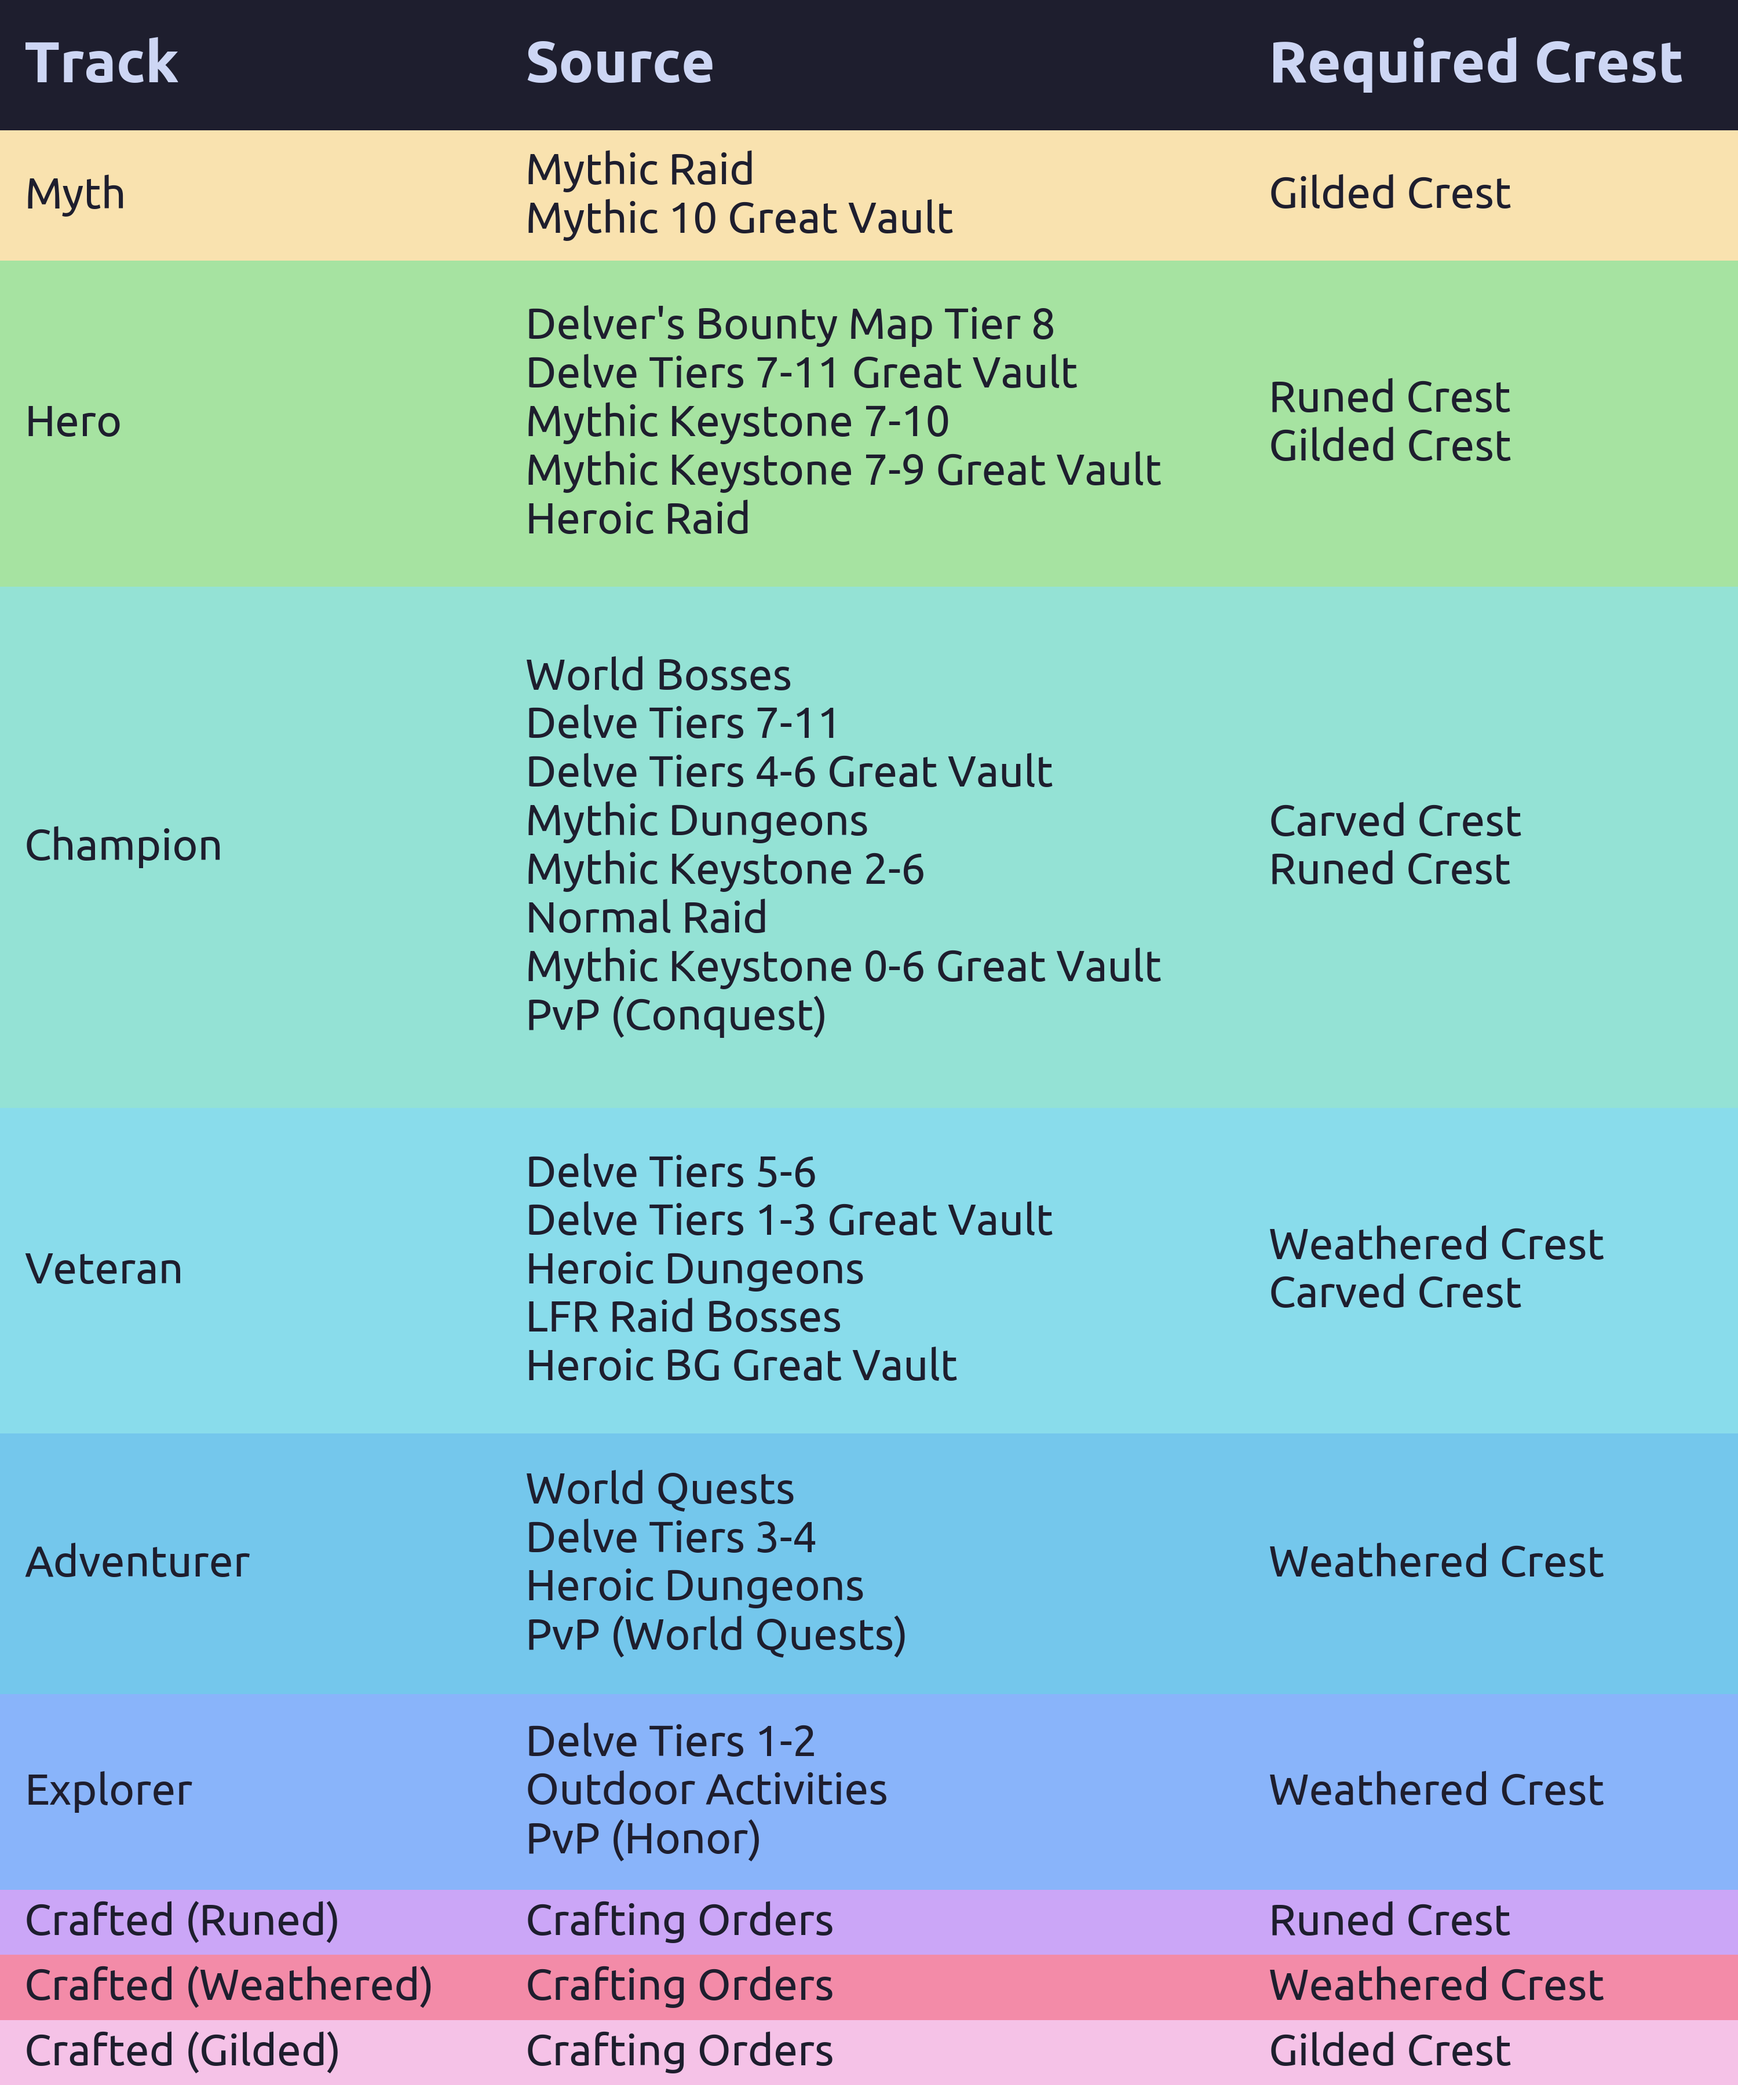
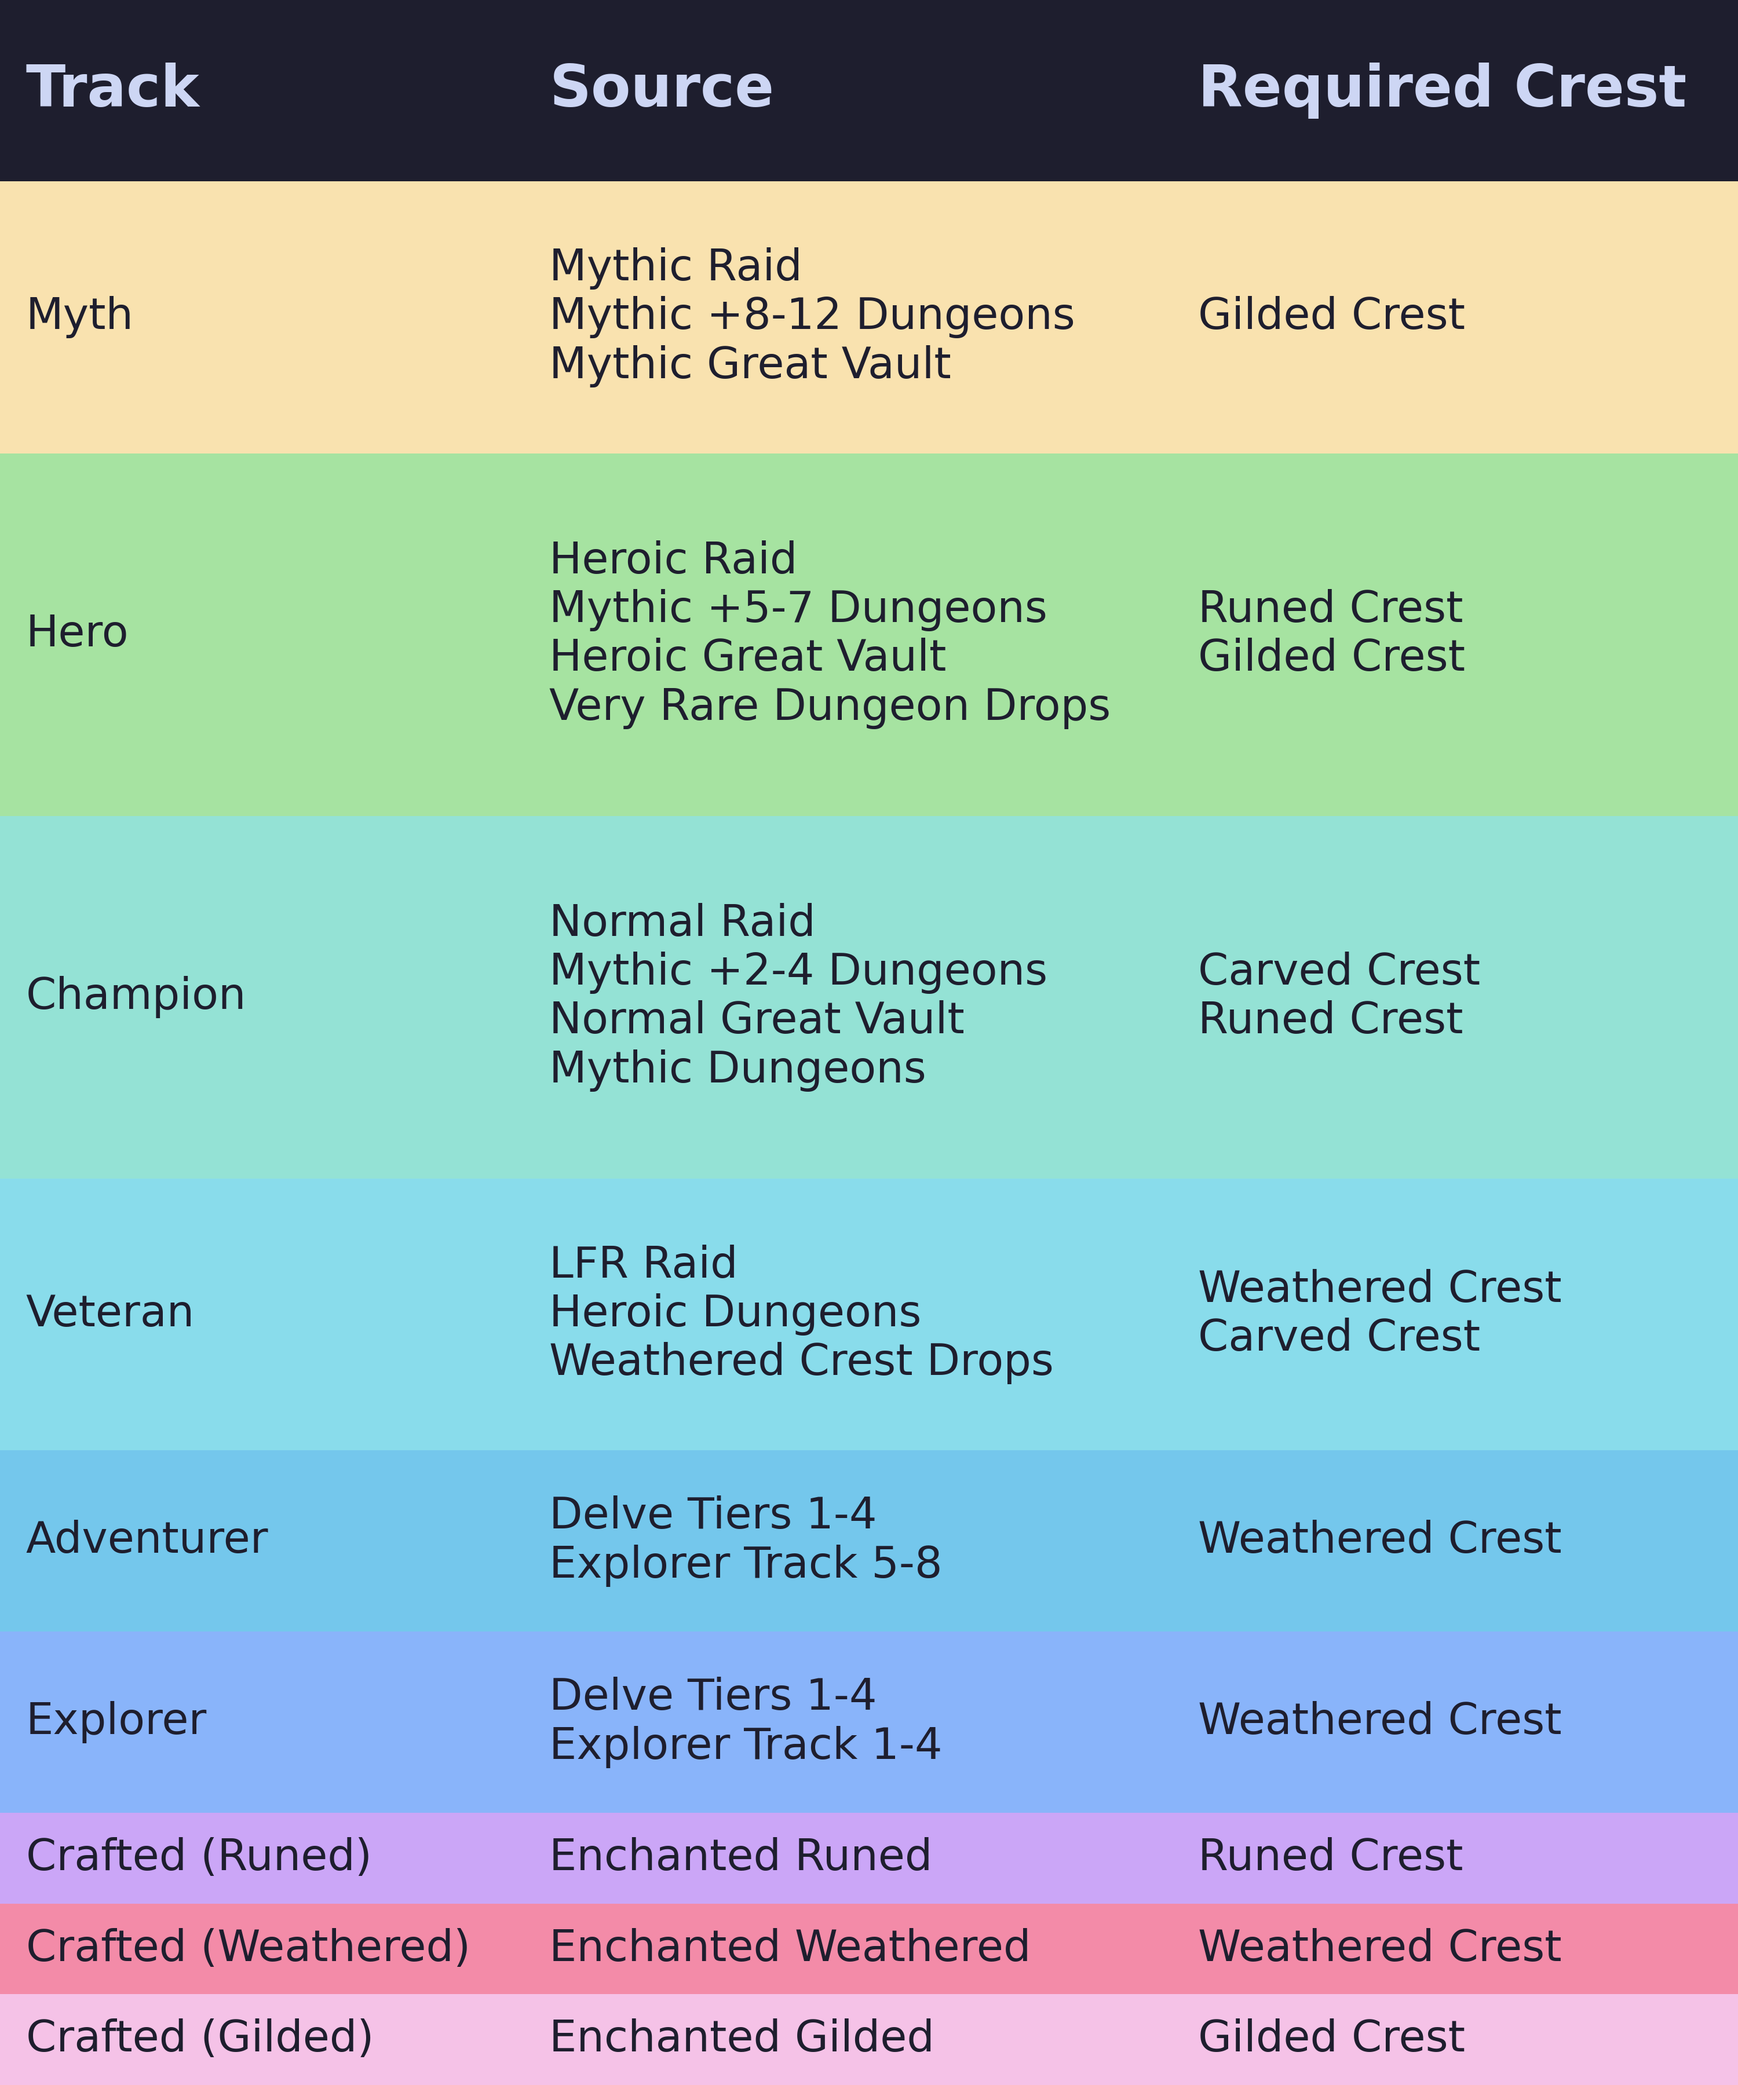
add crest and season 2

diff --git a/gear_prog/data.py b/gear_prog/data.py
@@ -42,80 +42,108 @@ custom_track_colors = {
 }
 
 gear_score_data = {
-    'Normal Dungeon': {'Starting Item Level': 554, 'Max Item Level': 554},
-    'Explorer': {'Starting Item Level': 558, 'Max Item Level': 580},
-    'Adventurer': {'Starting Item Level': 571, 'Max Item Level': 593},
-    'Veteran': {'Starting Item Level': 584, 'Max Item Level': 606},
-    'Champion': {'Starting Item Level': 597, 'Max Item Level': 619},
-    'Hero': {'Starting Item Level': 610, 'Max Item Level': 626},
-    'Myth': {'Starting Item Level': 623, 'Max Item Level': 639},
-    'Base Spark Crafted': {'Starting Item Level': 593, 'Max Item Level': 606},
-    'Crafted (Weathered)': {'Starting Item Level': 577, 'Max Item Level': 590},
-    'Crafted (Runed)': {'Starting Item Level': 606, 'Max Item Level': 619},
-    'Crafted (Gilded)': {'Starting Item Level': 623, 'Max Item Level': 636}
+    'Normal Dungeon': {'Starting Item Level': 629, 'Max Item Level': 645}, 
+    'Explorer': {'Starting Item Level': 597, 'Max Item Level': 619}, 
+    'Adventurer': {'Starting Item Level': 610, 'Max Item Level': 632}, 
+    'Veteran': {'Starting Item Level': 623, 'Max Item Level': 645}, 
+    'Champion': {'Starting Item Level': 636, 'Max Item Level': 658}, 
+    'Hero': {'Starting Item Level': 649, 'Max Item Level': 665}, 
+    'Myth': {'Starting Item Level': 662, 'Max Item Level': 678}, 
+    'Base Spark Crafted': {'Starting Item Level': 623, 'Max Item Level': 636}, 
+    'Crafted (Weathered)': {'Starting Item Level': 616, 'Max Item Level': 629}, 
+    'Crafted (Runed)': {'Starting Item Level': 645, 'Max Item Level': 658}, 
+    'Crafted (Gilded)': {'Starting Item Level': 662, 'Max Item Level': 675} 
 }
 
 gear_source_data = {
     "Myth": {
-        "Source": ["Mythic Raid", "Mythic 10 Great Vault"],
+        "Source": ["Mythic Raid", "Mythic +8-12 Dungeons", "Mythic Great Vault"],
         "Required Crest": "Gilded Crest",
     },
     "Hero": {
         "Source": [
-            "Delver's Bounty Map Tier 8",
-            "Delve Tiers 7-11 Great Vault",
-            "Mythic Keystone 7-10",
-            "Mythic Keystone 7-9 Great Vault",
             "Heroic Raid",
+            "Mythic +5-7 Dungeons",
+            "Heroic Great Vault",
+            "Very Rare Dungeon Drops"
         ],
         "Required Crest": "Runed Crest\nGilded Crest",
     },
     "Champion": {
         "Source": [
-            "World Bosses",
-            "Delve Tiers 7-11",
-            "Delve Tiers 4-6 Great Vault",
-            "Mythic Dungeons",
-            "Mythic Keystone 2-6",
             "Normal Raid",
-            "Mythic Keystone 0-6 Great Vault",
-            "PvP (Conquest)",
+            "Mythic +2-4 Dungeons",
+            "Normal Great Vault",
+            "Mythic Dungeons",
         ],
         "Required Crest": "Carved Crest\nRuned Crest",
     },
     "Veteran": {
         "Source": [
-            "Delve Tiers 5-6",
-            "Delve Tiers 1-3 Great Vault",
+            "LFR Raid",
             "Heroic Dungeons",
-            "LFR Raid Bosses",
-            "Heroic BG Great Vault",
+            "Weathered Crest Drops",
         ],
         "Required Crest": "Weathered Crest\nCarved Crest",
     },
     "Adventurer": {
-        "Source": ["World Quests", 
-                   "Delve Tiers 3-4", 
-                   "Heroic Dungeons", 
-                   "PvP (World Quests)"],
+        "Source": [
+            "Delve Tiers 1-4",
+            "Explorer Track 5-8"
+        ],
         "Required Crest": "Weathered Crest",
     },
     "Explorer": {
-        "Source": ["Delve Tiers 1-2", 
-                   "Outdoor Activities",
-                   "PvP (Honor)"],
+        "Source": [
+            "Delve Tiers 1-4",
+            "Explorer Track 1-4"
+        ],
         "Required Crest": "Weathered Crest",
     },
     "Crafted (Runed)": {
-        "Source": ["Crafting Orders"],
+        "Source": ["Enchanted Runed"],
         "Required Crest": "Runed Crest",
     },
     "Crafted (Weathered)": {
-        "Source": ["Crafting Orders"],
+        "Source": ["Enchanted Weathered"],
         "Required Crest": "Weathered Crest",
     },
     "Crafted (Gilded)": {
-        "Source": ["Crafting Orders"],
+        "Source": ["Enchanted Gilded"],
         "Required Crest": "Gilded Crest",
     },
+}
+
+crest_source_data = {
+    "Gilded Crest": {
+        "Source": [
+            "Mythic +7-12 Dungeons",
+            "Mythic Raid Bosses",
+            "Heroic Raid Bosses 1-7",
+            "Bountiful Delves Tier 11"
+        ]
+    },
+    "Runed Crest": {
+        "Source": [
+            "Mythic +2-6 Dungeons",
+            "Heroic Raid Bosses 1-7",
+            "Normal Raid Bosses 7-8",
+            "Bountiful Delves Tiers 8-10"
+        ]
+    },
+    "Carved Crest": {
+        "Source": [
+            "Mythic 0 Dungeons",
+            "Normal Raid Bosses 1-7",
+            "LFR Raid Bosses 7-8",
+            "Bountiful Delves Tiers 6-7"
+        ]
+    },
+    "Weathered Crest": {
+        "Source": [
+            "LFR Raid Bosses 1-8",
+            "Heroic Dungeons",
+            "Bountiful Delves Tiers 1-5"
+        ]
+    }
 }

diff --git a/gear_prog/crest_source_table.py b/gear_prog/crest_source_table.py
@@ -1,7 +1,6 @@
 import pandas as pd
 import matplotlib.pyplot as plt
-from data import gear_source_data, custom_track_colors, colors
-
+from data import crest_source_data, colors
 
 # Define styles for the column headers
 header_font = "DejaVu Sans"
@@ -10,25 +9,23 @@ header_background_color = colors["Base"]
 row_text_color = colors["Base"]
 
 # Create lists for the DataFrame
-tracks = []
+crests = []
 sources = []
-required_crests = []
 
 # Populate lists
-for track, info in gear_source_data.items():
-    tracks.append(track)
+for crest, info in crest_source_data.items():
+    crests.append(crest)
     # Join sources with line breaks
     source_str = "\n".join(info["Source"])
     sources.append(source_str)
-    required_crests.append(info["Required Crest"])
 
 # Create DataFrame
 df = pd.DataFrame(
-    {"Track": tracks, "Source": sources, "Required Crest": required_crests}
+    {"Crest": crests, "Source": sources}
 )
 
-# Adjust the figure width accordingly
-fig, ax = plt.subplots(figsize=(5, 6))
+# Create figure and axis
+fig, ax = plt.subplots(figsize=(5, 4))
 ax.axis("off")
 
 # Create table with adjusted bounding box to fit the table snugly
@@ -43,13 +40,21 @@ table = ax.table(
 # Set font sizes
 table.auto_set_font_size(False)
 table.set_fontsize(9)
-table.auto_set_column_width([0,1,2,3])
+table.auto_set_column_width([0,1])
 
 # Get max number of lines in any cell per row to adjust row heights
 max_lines_per_row = []
 for index, row in df.iterrows():
     max_lines = max(len(str(cell).split("\n")) for cell in row)
     max_lines_per_row.append(max_lines)
+
+# Define crest colors
+crest_colors = {
+    "Gilded Crest": colors["Yellow"],
+    "Runed Crest": colors["Mauve"],
+    "Carved Crest": colors["Blue"],
+    "Weathered Crest": colors["Peach"],
+}
 
 # Set cell properties
 for (row, col), cell in table.get_celld().items():
@@ -78,17 +83,16 @@ for (row, col), cell in table.get_celld().items():
             ha="left",
             va="center",
         )
-        # Get the track name for this row
-        track_name = df.iloc[row - 1]["Track"]
-        # Set background color based on track
-        background_color = custom_track_colors.get(track_name, "#FFFFFF")
+        # Get the crest name for this row
+        crest_name = df.iloc[row - 1]["Crest"]
+        # Set background color based on crest
+        background_color = crest_colors.get(crest_name, "#FFFFFF")
         cell.set_facecolor(background_color)
         cell.set_edgecolor("none")
-
 
 # Remove any white border or extra space around the table
 plt.subplots_adjust(left=0, right=1, top=1, bottom=0)
 
 # Save the figure without any padding
-plt.savefig("img/gear_source_table.png", dpi=600, bbox_inches="tight", pad_inches=0)
-plt.close()
+plt.savefig("img/crest_source_table.png", dpi=600, bbox_inches="tight", pad_inches=0)
+plt.close() 

diff --git a/gear_prog/make_gear_report.py b/gear_prog/make_gear_report.py
@@ -104,8 +104,18 @@ def pad_image_to_width(image, target_width, background_color=(255, 255, 255)):
 
 # Example usage
 if __name__ == '__main__':
+    # First combine gear upgrade chart and crest source table vertically
     combine_images(
         "img/gear_upgrade_chart.png",
+        "img/crest_source_table.png",
+        "img/chart_and_crest.png",
+        orientation="vertical",
+        background_color=colors["Base"],
+    )
+    
+    # Then combine that result with the gear source table horizontally
+    combine_images(
+        "img/chart_and_crest.png",
         "img/gear_source_table.png",
         "img/gear_prog_report.png",
         orientation="horizontal",

diff --git a/gear_prog/gear_prog_chart.py b/gear_prog/gear_prog_chart.py
@@ -39,7 +39,11 @@ ax.set_xlabel('Item Level',
                fontsize=10, 
                color=colors['Text'])
 
-ax.set_xlim(left=540, right=650)
+# Calculate dynamic x-axis limits with 2% padding
+min_ilevel = df_ordered['Starting Item Level'].min()
+max_ilevel = df_ordered['Max Item Level'].max()
+padding = (max_ilevel - min_ilevel) * 0.1  # 2% padding
+ax.set_xlim(left=min_ilevel - padding, right=max_ilevel + padding * 3)  # Extra padding on right for labels
 
 # Add dotted vertical grid lines
 ax.yaxis.grid(True, linestyle=":", linewidth=0.5, color=colors["Text"])

diff --git a/README.MD b/README.MD
@@ -7,6 +7,8 @@
 ## Gear Sources
 ![Gear Source Table](https://github.com/MattressPadley/WoW-data/blob/main/img/gear_source_table.png)
 
+## Crest Sources
+![Crest Source Table](https://github.com/MattressPadley/WoW-data/blob/main/img/crest_source_table.png)
 
 ## One Page Cheat Sheet
 ![Gear Progression Report](https://github.com/MattressPadley/WoW-data/blob/main/img/gear_prog_report.png)
